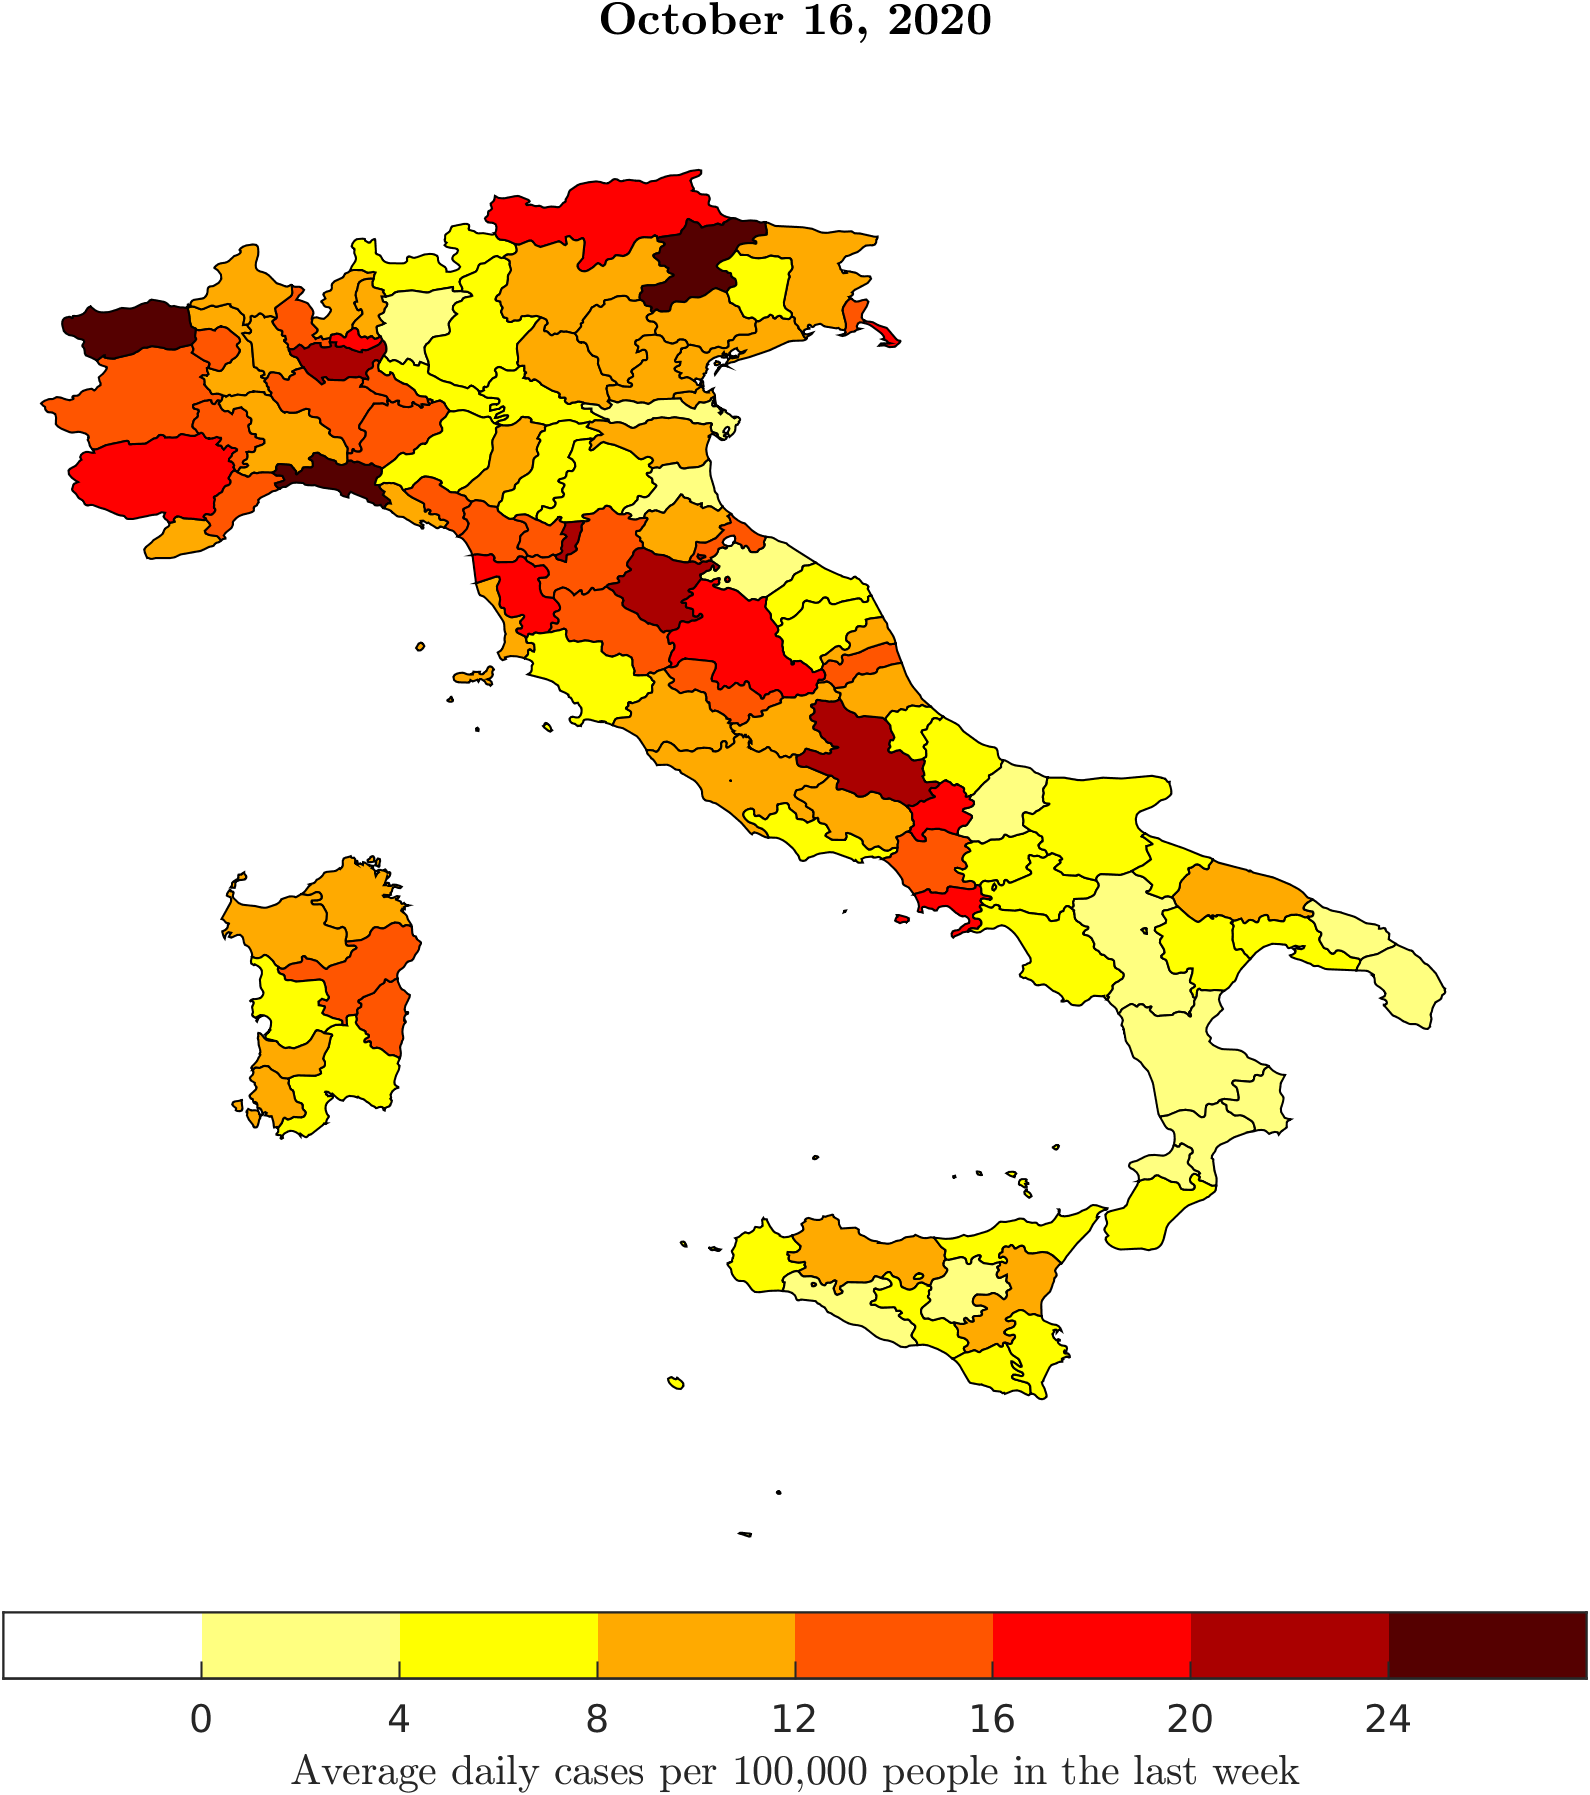
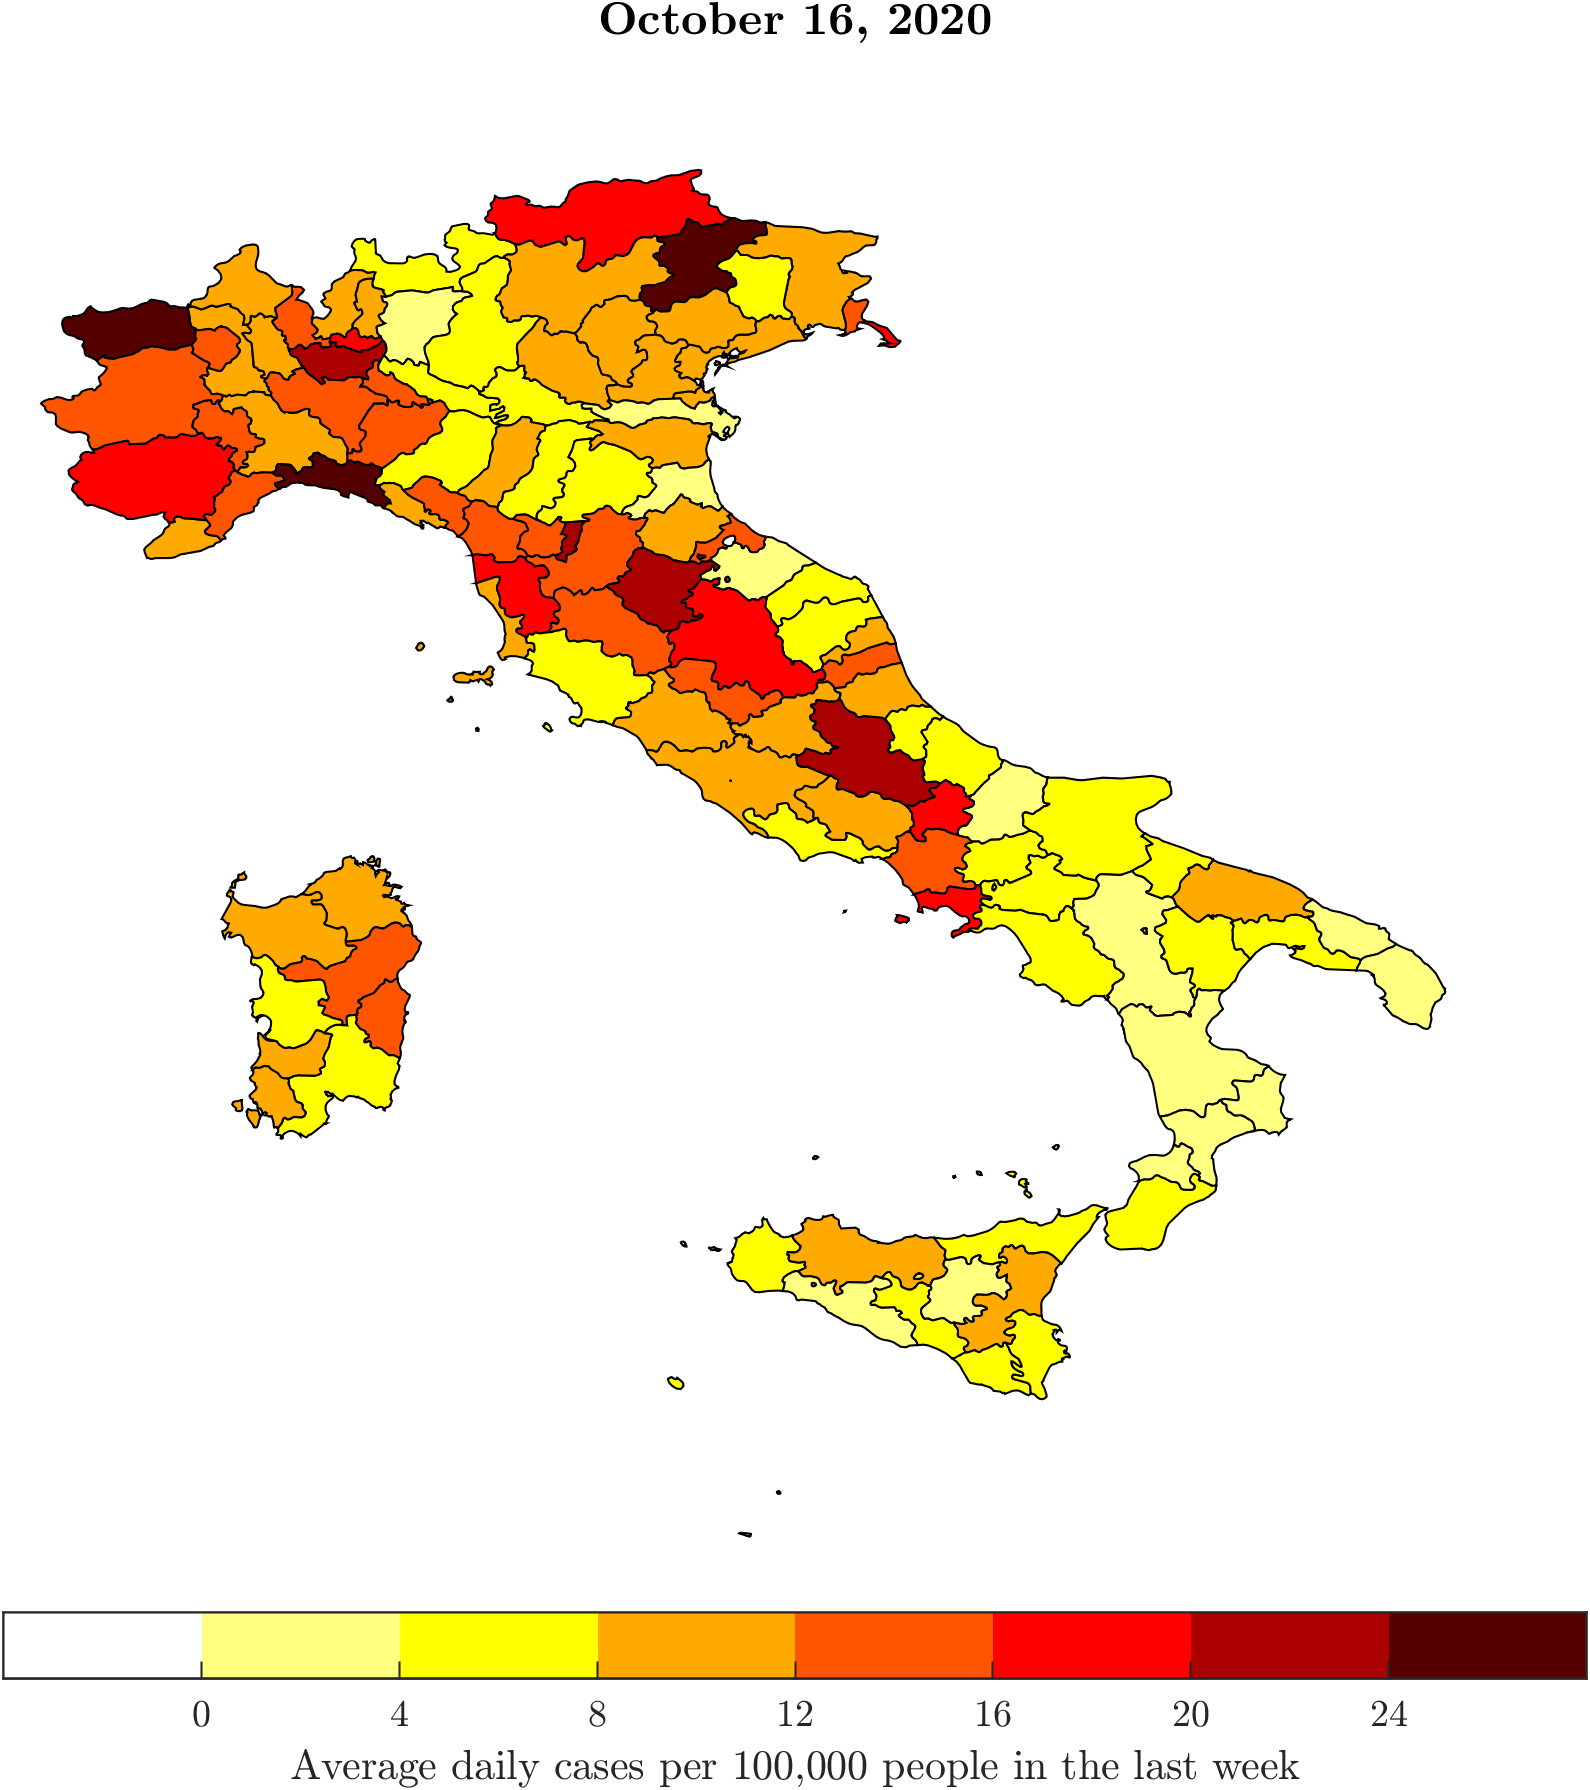
Test fig in linux with tex ticks

diff --git a/matlab/main_covid_hotspots.m b/matlab/main_covid_hotspots.m
@@ -25,8 +25,8 @@ n_provs = size(prov_names, 1);     % Number of provinces
 % Get date
 
 % first_day_back = datetime('01-07-2020', 'InputFormat', 'dd-MM-yyyy');
-first_day_back = datetime('17-10-2020', 'InputFormat', 'dd-MM-yyyy');
-last_day_back = datetime('17-10-2020', 'InputFormat', 'dd-MM-yyyy');
+first_day_back = datetime('16-10-2020', 'InputFormat', 'dd-MM-yyyy');
+last_day_back = datetime('16-10-2020', 'InputFormat', 'dd-MM-yyyy');
 n_days_back = days(last_day_back - first_day_back);
 for days_back = 0:n_days_back
 
